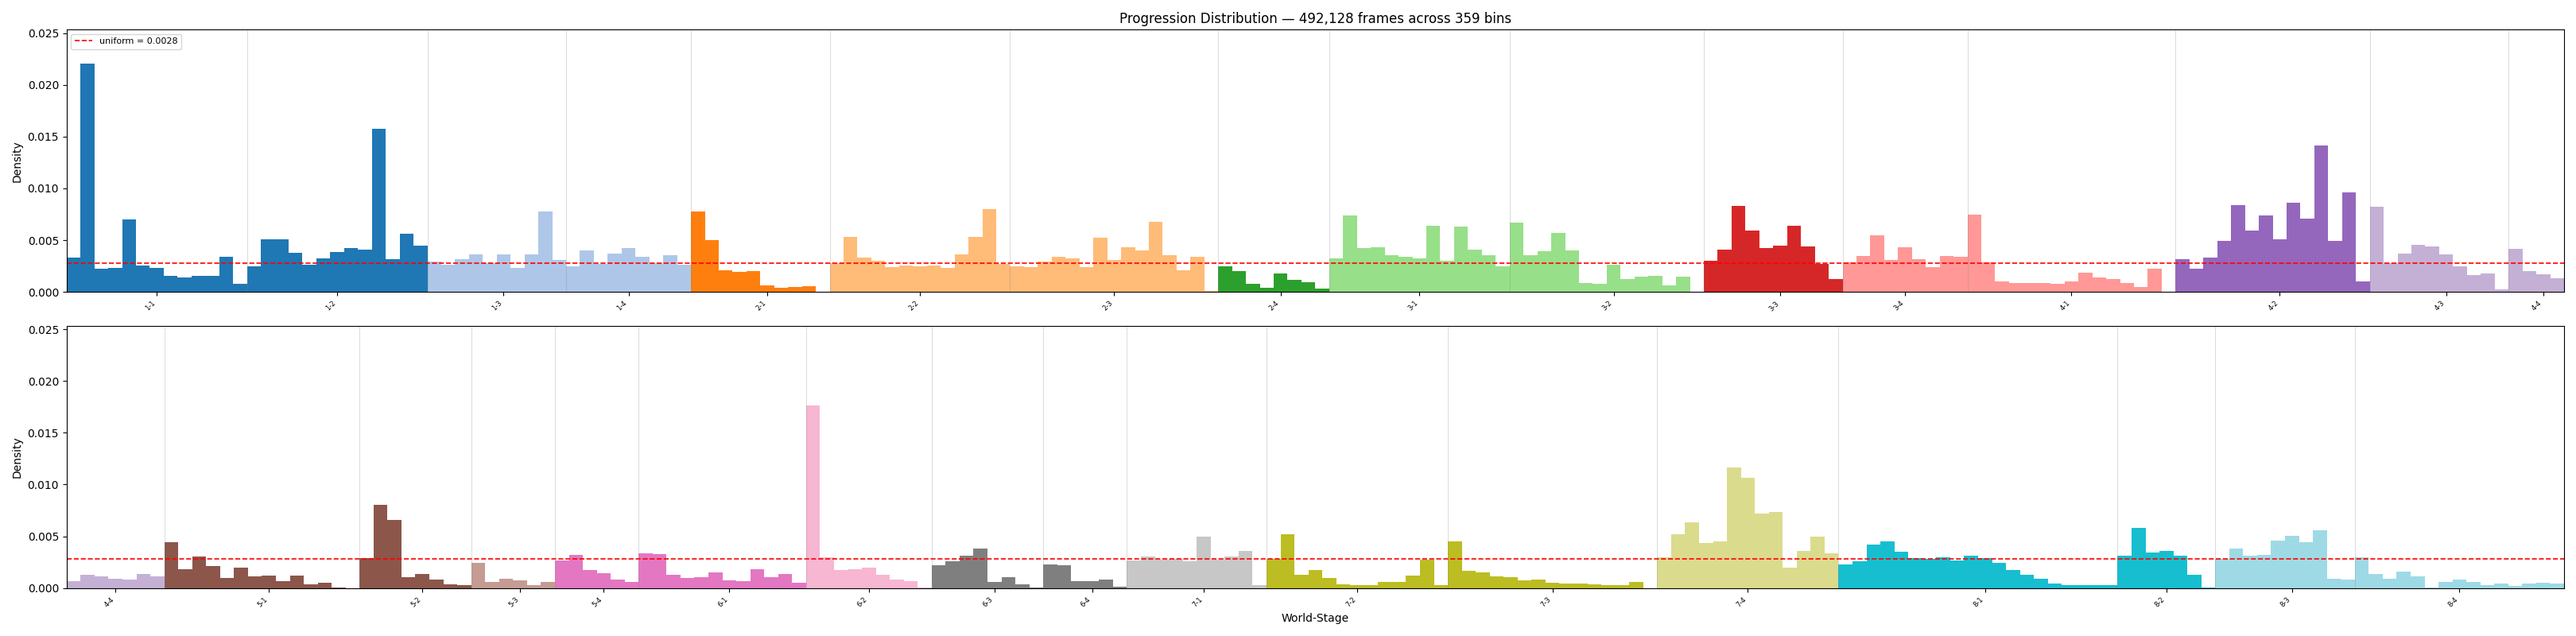
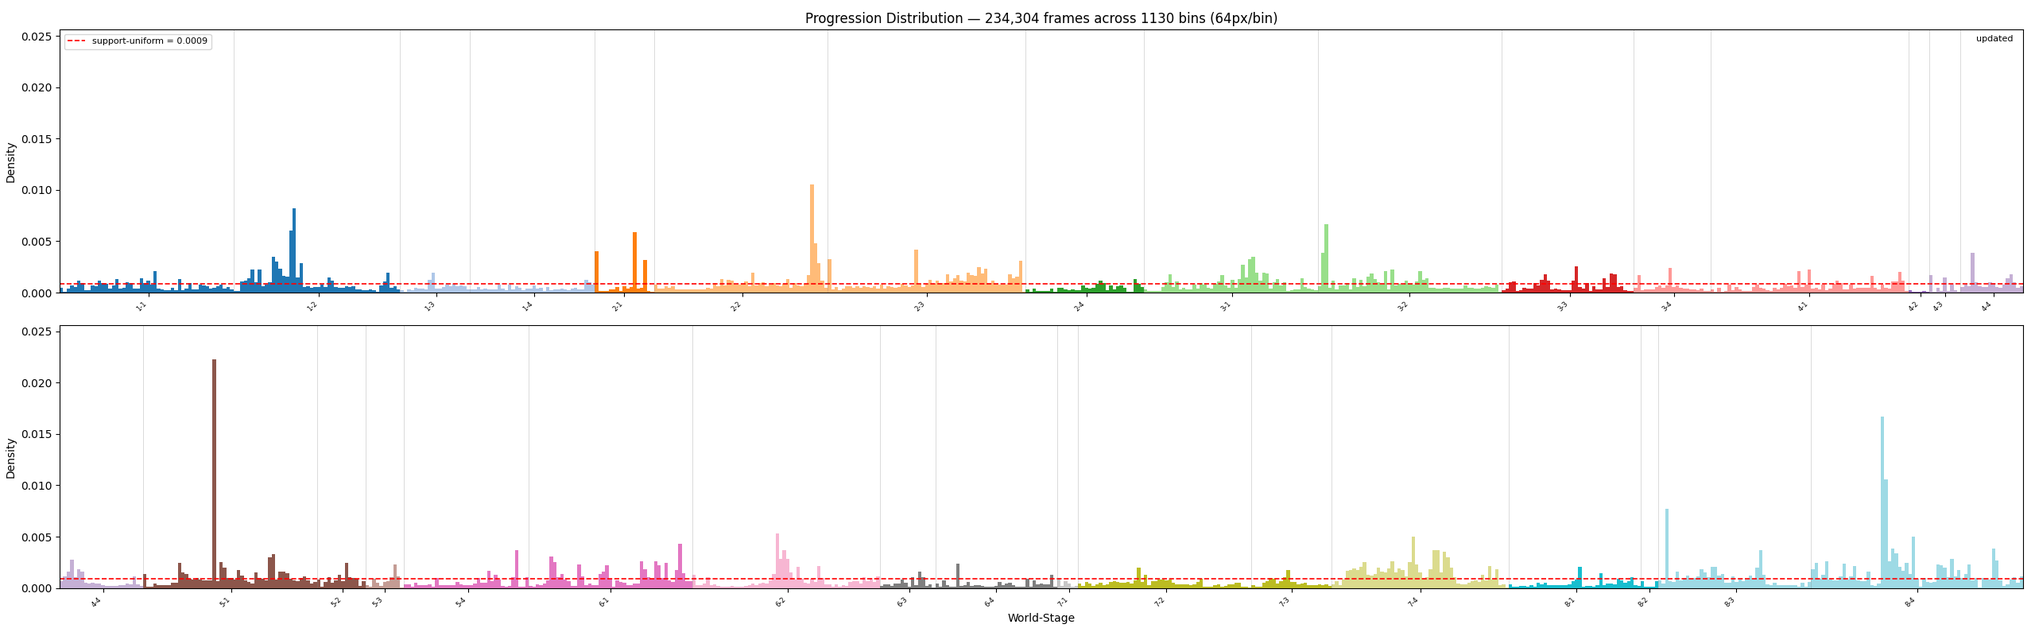
feat: enhance scene cut handling in dataset processing and training scripts

diff --git a/scripts/sweep_dataset_capacity.py b/scripts/sweep_dataset_capacity.py
@@ -115,9 +115,24 @@ class ModelResult:
 # Helpers
 # ---------------------------------------------------------------------------
 
+def _count_scene_cuts(npz, seq_idx: int, t_start: int, seq_len: int) -> int:
+    if "world" in npz.files and "stage" in npz.files:
+        world_window = np.asarray(npz["world"][seq_idx, t_start : t_start + seq_len])
+        stage_window = np.asarray(npz["stage"][seq_idx, t_start : t_start + seq_len])
+        if len(world_window) <= 1:
+            return 0
+        transitions = (world_window[1:] != world_window[:-1]) | (stage_window[1:] != stage_window[:-1])
+        return int(np.count_nonzero(transitions))
+
+    if "dones" in npz.files:
+        done_window = np.asarray(npz["dones"][seq_idx, t_start : t_start + seq_len], dtype=bool)
+        return int(np.count_nonzero(done_window[:-1]))
+
+    return 0
+
+
 def _count_chunk(filepath: str, seq_len: int) -> int:
-    """Count valid samples in a single chunk file."""
-    import numpy as np
+    """Count fixed-length samples with fewer than two scene cuts."""
     try:
         meta_path = filepath.replace(".npz", ".meta.json")
         if os.path.exists(meta_path):
@@ -133,19 +148,19 @@ def _count_chunk(filepath: str, seq_len: int) -> int:
             return 0
 
         npz = np.load(filepath, mmap_mode="r")
-        dones = np.array(npz["dones"])
         count = 0
         for i in range(num_seqs):
             for t in range(0, total_t - seq_len + 1, seq_len):
-                if not np.any(dones[i, t : t + seq_len - 1]):
-                    count += 1
+                if _count_scene_cuts(npz, i, t, seq_len) >= 2:
+                    continue
+                count += 1
         return count
     except Exception:
         return 0
 
 
 def get_total_samples(data_dir: str, seq_len: int = 16) -> int:
-    """Count valid samples the same way MarioVideoDataset does."""
+    """Count samples the same way MarioVideoDataset does."""
     import concurrent.futures
     import glob
 
@@ -558,9 +573,9 @@ def main():
         total_samples = 18000  # placeholder for dry-run
         print(f"Upper bound: ~{total_samples} (estimate, dry-run)")
     else:
-        print("Counting valid samples in dataset...")
+        print("Counting samples in dataset (skipping windows with >=2 scene cuts)...")
         total_samples = get_total_samples(args.data_dir)
-        print(f"Upper bound: {total_samples} valid samples")
+        print(f"Upper bound: {total_samples} samples")
 
     if total_samples < 2:
         print("Dataset too small.")

diff --git a/scripts/sweep_dataset_capacity_genie.py b/scripts/sweep_dataset_capacity_genie.py
@@ -127,9 +127,24 @@ class ModelResult:
 # Helpers
 # ---------------------------------------------------------------------------
 
+def _count_scene_cuts(npz, seq_idx: int, t_start: int, seq_len: int) -> int:
+    if "world" in npz.files and "stage" in npz.files:
+        world_window = np.asarray(npz["world"][seq_idx, t_start : t_start + seq_len])
+        stage_window = np.asarray(npz["stage"][seq_idx, t_start : t_start + seq_len])
+        if len(world_window) <= 1:
+            return 0
+        transitions = (world_window[1:] != world_window[:-1]) | (stage_window[1:] != stage_window[:-1])
+        return int(np.count_nonzero(transitions))
+
+    if "dones" in npz.files:
+        done_window = np.asarray(npz["dones"][seq_idx, t_start : t_start + seq_len], dtype=bool)
+        return int(np.count_nonzero(done_window[:-1]))
+
+    return 0
+
+
 def _count_chunk(filepath: str, seq_len: int) -> int:
-    """Count valid samples in a single chunk file."""
-    import numpy as np
+    """Count fixed-length samples with fewer than two scene cuts."""
     try:
         meta_path = filepath.replace(".npz", ".meta.json")
         if os.path.exists(meta_path):
@@ -145,19 +160,19 @@ def _count_chunk(filepath: str, seq_len: int) -> int:
             return 0
 
         npz = np.load(filepath, mmap_mode="r")
-        dones = np.array(npz["dones"])
         count = 0
         for i in range(num_seqs):
             for t in range(0, total_t - seq_len + 1, seq_len):
-                if not np.any(dones[i, t : t + seq_len - 1]):
-                    count += 1
+                if _count_scene_cuts(npz, i, t, seq_len) >= 2:
+                    continue
+                count += 1
         return count
     except Exception:
         return 0
 
 
 def get_total_samples(data_dir: str, seq_len: int = 16) -> int:
-    """Count valid samples the same way MarioVideoDataset does."""
+    """Count samples the same way MarioVideoDataset does."""
     import concurrent.futures
     import glob
 
@@ -570,9 +585,9 @@ def main():
         total_samples = 18000  # placeholder for dry-run
         print(f"Upper bound: ~{total_samples} (estimate, dry-run)")
     else:
-        print("Counting valid samples in dataset...")
+        print("Counting samples in dataset (skipping windows with >=2 scene cuts)...")
         total_samples = get_total_samples(args.data_dir)
-        print(f"Upper bound: {total_samples} valid samples")
+        print(f"Upper bound: {total_samples} samples")
 
     if total_samples < 2:
         print("Dataset too small.")

diff --git a/scripts/collect_vector.py b/scripts/collect_vector.py
@@ -439,10 +439,10 @@ def build_vector_env(
 def _build_replay_pool(
     output_dir: Path,
     progression_bin_size: int,
-) -> list[tuple[tuple[int, int], list[int], int, float]]:
+) -> list[tuple[tuple[int, int], list[int], int, float, int]]:
     """Scan progression coverage + rollouts, return weighted replay pool.
 
-    Returns a list of ``(level, actions, target_step, weight)`` tuples that
+    Returns a list of ``(level, actions, target_step, weight, x_bin)`` tuples that
     can be fed directly to ``RandomLevelMarioEnv.update_progression_balance()``.
     """
     prog_cov = scan_progression_coverage(str(output_dir), bin_size=progression_bin_size)
@@ -451,13 +451,13 @@ def _build_replay_pool(
     prog_rpt = compute_progression_balance(prog_cov, reachable, bin_size=progression_bin_size)
     print_progression_guidance(prog_rpt, n=5)
 
-    pool: list[tuple[tuple[int, int], list[int], int, float]] = []
+    pool: list[tuple[tuple[int, int], list[int], int, float, int]] = []
     for (w, s, b), weight in prog_rpt.weights.items():
         if weight <= 0:
             continue
         if b == 0:
             # Bin 0 = level start — zero-step replay (just selects the level)
-            pool.append(((w, s), [], 0, weight))
+            pool.append(((w, s), [], 0, weight, b))
             continue
         all_replays = ri.find_all_replay_actions(w, s, b, bin_size=progression_bin_size)
         if not all_replays:
@@ -465,7 +465,7 @@ def _build_replay_pool(
         # Split the bin's weight equally across candidate rollouts
         per_rollout_weight = weight / len(all_replays)
         for actions_list, target_step in all_replays:
-            pool.append(((w, s), actions_list, target_step, per_rollout_weight))
+            pool.append(((w, s), actions_list, target_step, per_rollout_weight, b))
 
     return pool
 

diff --git a/scripts/train_magvit.py b/scripts/train_magvit.py
@@ -31,6 +31,22 @@ from mario_world_model.config import IMAGE_SIZE, CODEBOOK_SIZE, TOKENIZER_LAYERS
 from mario_world_model.auto_batch_sizer import find_max_batch_size
 from mario_world_model.tokenizer_compat import resolve_video_contains_first_frame
 
+def _count_scene_cuts(npz, seq_idx, t_start, seq_len):
+    if "world" in npz.files and "stage" in npz.files:
+        world_window = np.asarray(npz["world"][seq_idx, t_start:t_start+seq_len])
+        stage_window = np.asarray(npz["stage"][seq_idx, t_start:t_start+seq_len])
+        if len(world_window) <= 1:
+            return 0
+        transitions = (world_window[1:] != world_window[:-1]) | (stage_window[1:] != stage_window[:-1])
+        return int(np.count_nonzero(transitions))
+
+    if "dones" in npz.files:
+        done_window = np.asarray(npz["dones"][seq_idx, t_start:t_start+seq_len], dtype=bool)
+        return int(np.count_nonzero(done_window[:-1]))
+
+    return 0
+
+
 def _index_chunk(chunk_idx, filepath, seq_len):
     """Index a single chunk file. Returns list of (chunk_idx, seq_idx, t_start) tuples."""
     try:
@@ -48,13 +64,10 @@ def _index_chunk(chunk_idx, filepath, seq_len):
             return []
 
         npz = np.load(filepath, mmap_mode='r')
-        dones = np.array(npz['dones'])
-
         samples = []
         for i in range(num_seqs):
             for t in range(0, total_t - seq_len + 1, seq_len):
-                window_dones = dones[i, t:t+seq_len]
-                if np.any(window_dones[:-1]):
+                if _count_scene_cuts(npz, i, t, seq_len) >= 2:
                     continue
                 samples.append((chunk_idx, i, t))
         return samples

diff --git a/README.md b/README.md
@@ -142,7 +142,7 @@ Each `.npz` file contains an identical `.meta.json` equivalent indicating sequen
 The data collection script writes out fixed-length sequences (e.g. 16 frames). Because environments auto-reset upon death or level completion, **a single sequence can seamlessly cross episode boundaries.** This means a sequence may start in one world/stage and jump to another midway through.
 Downstream models utilizing 3D convolutions (like the MAGVIT-2 video tokenizer) will perceive these boundaries as sudden "scene cuts". While standard models typcially learn to compress these jump cuts properly, if you require strictly continuous patches for training, make sure to evaluate the `dones` flag arrays to mask or split the dataset accordingly.
 
-*(Note: The current `MarioVideoDataset` implementation in the training script automatically handles this. It evaluates the `dones` array during data loading and entirely drops any sequences that contain a boundary break prior to the final frame. This ensures perfectly stable datasets for 3D continuous training by sacrificing a small amount of data volume).*
+*(Note: The current training scripts keep windows with zero or one scene cut, and skip windows that contain two or more scene cuts within the training span. Scene cuts are detected from `(world, stage)` transitions when metadata is present, with `dones` used as a fallback for older chunks.)*
 
 ## Dataset Balancing System
 
